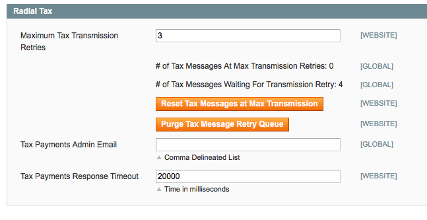
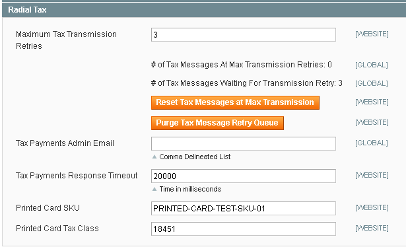
Updates from self review
and recent changes to tax gift messaging card

diff --git a/docs/SETUP.md b/docs/SETUP.md
@@ -30,7 +30,7 @@ Assuming all fields and entered and the connectivity test buttons work correctly
 
 ## Setting Up Extension Cron Jobs
 
-There are two cron jobs packaged with the Radial PTF extension:
+There are six cron jobs packaged with the Radial PTF extension:
 
 ### radial\_eb2cfraud\_retry\_sendevent
 The radial\_eb2cfraud\_retry\_sendevent job resends Fraud evaluations which failed to be transmitted on initial order submission; the default cron mask is set to run once a minute as any orders which fail to be transmitted on order submit should get to Radial fraud processing as quickly as possible.    
@@ -64,7 +64,7 @@ To use automated invoicing, log into Admin > System > Configuration > Radial - P
 
 Set Enabled to Yes, Save, and clear cache - this will enable Automated Invoicing.
 
-Reconfirm Age - when not using Automated Invoicing, the Radial PTF extension will perform a confirm funds check on an order when it is being shipped to ensure funds are still available from a previous authorization immediately prior to shipping.  When Magento is integrated into a Warehouse system, that check cannot happen since Magento is not involved with the final shipment; as such, the Reconfirm Age field is used to specify how many hours old an order can be before running a confirm funds check as part of the fraud release process.  So if Reconfirm Age is set to 4 hours and it takes more than 4 hours to get to a ready to ship state, the Radial PTF extension will confirm funds on the order before letting it get to a ready to ship state.
+Reconfirm Age - when not using Automated Invoicing, the Radial PTF extension will perform a confirm funds check on an order when it is being shipped to ensure funds are still available from a previous authorization immediately prior to shipping.  When Magento is integrated into a Warehouse system, that check cannot happen since Magento is not involved with the final shipment; as such, the Reconfirm Age field is used to specify how many hours old an order can be before running a confirm funds check as part of the fraud release process.  So if Reconfirm Age is set to 4 hours and it takes more than 4 hours to get to a ready to ship state, the Radial PTF extension will confirm funds on the order before letting it get to a ready to ship state (with the expectation that the warehouse integration would then pick up the order for fulfillment processing).
 
 # Disabling Radial Payment Methods and Fraud Processing
 
@@ -76,7 +76,7 @@ To stop using Radial PayPal Processing as an active Payment Method in Magento - 
 
 To disable Radial Fraud Processing, go to System > Configuration > Radial - Payments, Tax, Fraud and select the Fraud tab and set "Enabled" to No.  Save and clear cache.
 
-If all functionality of the Radial PTF extension needs to be fully disabled, please see the sections on Automated Invoicing for information about turning off Automated Invoicing and Setting Up Extension Cron Jobs for a list of cron jobs to disable.
+If all functionality of the Radial PTF extension needs to be fully disabled, please see the sections in this document on Automated Invoicing for information about turning off Automated Invoicing and Setting Up Extension Cron Jobs for a list of cron jobs to disable.
 
 ## Order Event Logging
 

diff --git a/docs/TAXES_SETUP.md b/docs/TAXES_SETUP.md
@@ -17,8 +17,10 @@ To start using Radial Tax Processing go to Admin > System > Configuration > Radi
 There are a number of configuration options available from this tab, including:
 
 - Maximum Tax Transmission Retries: Indicates that number of times to retry a tax operation calling back to Radial (higher numbers will increase communication success rates, lower numbers will tie up the system less - recommendation default is 3)
-- Tax Payments Admin Email: An email address / distribution list to use for notifying an administrator of a problem
+- Tax Payments Admin Email: An email address / distribution list to use for notifying an administrator of a problem relating to tax transactions
 - Tax Payments Response Timeout: Number of milliseconds each Radial Tax communication operation is allowed before timing out (higher numbers will increase communication success rates, lower numbers will tie up the system less - recommendation default is 20000)
+- Printed Card SKU: The SKU of the product used for printed gift messaging cards
+- Printed Card Tax Class: The tax classification code to use for a printed gift card (this should be provided by Radial)
 
 Additionally in this tab there is some informational reporting:
 
@@ -35,7 +37,7 @@ Once done, click Save Config and, if necessary, clear cache.
 
 ## Notes About Taxes in Magento
 
-Note that the Radial PTF tax functionality does not necessarily preclude other tax extensions /default tax data in Magento.  It is important that a storefront not run additional tax extensions in their Magento installation that could cause conflicts with or affect the calculations of the Radial PTF tax extension.  It is also important to not have out-of-the-box Magento tax rules in place which could similarly conflict with Radial tax calculations.
+Note that the Radial PTF tax functionality does not necessarily preclude other tax extensions / default tax data in Magento.  It is important that a storefront not run additional tax extensions in their Magento installation that could cause conflicts with or affect the calculations of the Radial PTF tax extension.  It is also important to not have out-of-the-box Magento tax rules in place which could similarly conflict with Radial tax calculations.
 
 All tax calculations should be done via the Radial extension for it to work properly.  Do not try to help it with other extensions or administrative adjustments to how taxes are calculated.
 

diff --git a/docs/SUPPORT.md b/docs/SUPPORT.md
@@ -42,6 +42,14 @@ Go to System > Configuration > Sales > Payment Method > eBay Enterprise PayPal a
 
 This would indicate that the extension is not loaded correctly or at all.  Check to see if there are any files under <magento_install\>/app/code/community/Radial and <magento_install\>/vendor/radial - if either or both of those Radial directories are missing, that would indicate that the core install process was not successfully completed.  Please review the installation steps under [Installation And Upgrading](INSTALL.md) and coordinate with Radial for next steps if there continue to be problems.
 
+### Eveything appears to be working, but submitting orders fails
+There could be a variety of reasons for this and you should always check the logs in this case, but you may want to first check to see if there are loaded ship maps in rom.xml - go under System > Configuration > Radial > Payments, TDF, Fraud and look under the general tab:
+
+<img src="assets/general_tab.png">
+
+The section showing "ROM.XML Configured?" should show that there are shipmaps and tender types defined.  If it says there are not, try clearing cache and going back to this screen.  If it still says there aren't any shipmaps defined, the installation probably has a missing or malformed rom.xml file - please see [Setup and Configuration](SETUP.md) "Step 1 - Rename the app/etc/rom.xml.sample file to rom.xml" and 
+[Integrators Guide](SI.md) "Setting Up Shipping Methods" for more information about making sure your rom.xml is set up and configured correctly.  
+
 ## Next Docs
 
 [Main](../README.md)

diff --git a/docs/FRAUD_SETUP.md b/docs/FRAUD_SETUP.md
@@ -18,7 +18,7 @@ Some other settings of note:
 - Fraud Files Installed?: this is a sanity-check report to ensure that Radial's needed JavaScript files are actually loaded on the deployed-to server
 - Debug Mode: Should be set to "No" at all times and only set to "Yes" if one is actively debugging fraud integration with Radial.  Turning this on will send much of the fraud messaging to the store's system.log.
 - Maximum Fraud Transmission Retries: The number of times the Radial PTF extension will attempt to retry an operation involving transmitting fraud data to Radial (higher numbers will increase communication success rates, lower numbers will tie up the system less - recommendation default is 3)
-- Fraud Admin Email: An email address / distribution list to use for notifying an administrator of a problem
+- Fraud Admin Email: An email address / distribution list to use for notifying an administrator of a problem relating to fraud processing
 - Fraud Response Timeout: Number of milliseconds each Radial Fraud communication operation is allowed before timing out (higher numbers will increase communication success rates, lower numbers will tie up the system less - recommendation default is 20000)
 
 Additionally in this tab there is some informational reporting:

diff --git a/docs/PAYMENT_SETUP.md b/docs/PAYMENT_SETUP.md
@@ -11,7 +11,7 @@
 <img src="assets/payments_tab.png">
 
 - Maximum Payments Transmission Retries: The number of times the Radial PTF extension will attempt to retry an operation involving transmitting Payments data to Radial (higher numbers will increase communication success rates, lower numbers will tie up the system less - recommendation default is 3)
-- Payments Admin Email: An email address / distribution list to use for notifying an administrator of a problem
+- Payments Admin Email: An email address / distribution list to use for notifying an administrator of a problem related to payment processing
 - Payments Response Timeout: Number of milliseconds each Radial Payments communication operation is allowed before timing out (higher numbers will increase communication success rates, lower numbers will tie up the system less - recommendation default is 20000)
 
 Additionally in this tab there is some informational reporting:

diff --git a/docs/SI.md b/docs/SI.md
@@ -106,6 +106,8 @@ In the end, each order state is a *recommendation* for handing the order (with t
 
 Work with your Magento SI to adjust any feeds / cron jobs which base themselves off of order status so that they only pick up orders in an appropriate/desired state
 
+It is strongly recommended that integrators look at turning on the Automated Invoicing option described in [Setup and Configuration](SETUP.md) to simplify the integration with a downstream fulfillment system.
+
 ## Next Docs
 
 [Main](../README.md)
